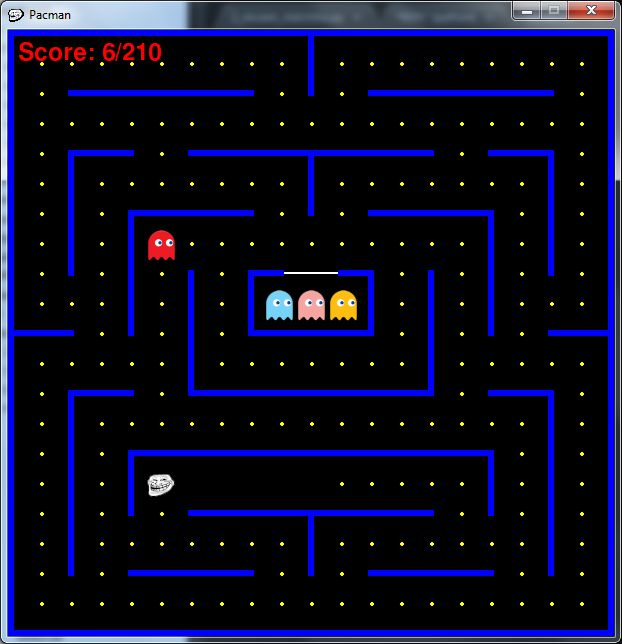
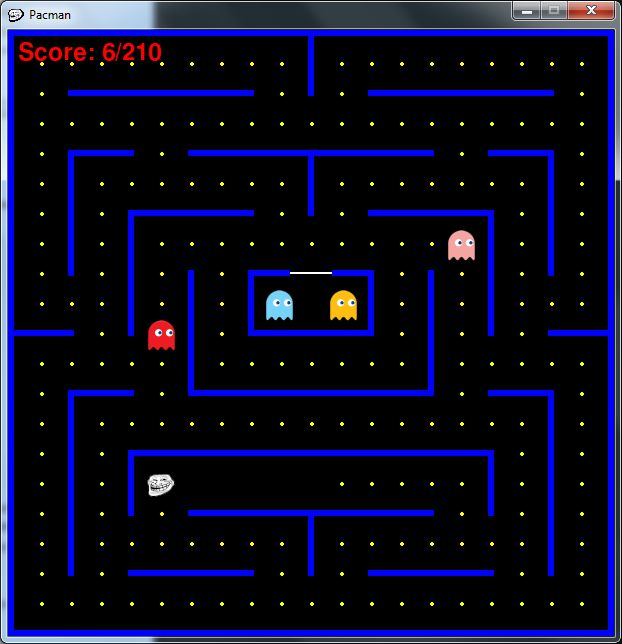
all ghosts moving

diff --git a/pacman2.py b/pacman2.py
@@ -198,6 +198,7 @@ steps = 0
 class Ghost(Player):
     # Change the speed of the ghost
     def changespeed(self,list,l):
+      try:
         global turn
         global steps
         z=list[turn][2]
@@ -213,23 +214,90 @@ class Ghost(Player):
           self.change_x=list[turn][0]
           self.change_y=list[turn][1]
           steps = 0
+      except IndexError:
+       pass
 
 Pinky_directions = [
-[0,-15,8],
-[15,0,24],
+[0,-15,4],
+[15,0,9],
+[0,15,11],
+[-15,0,23],
+[0,15,7],
+[15,0,11],
+[0,15,3],
+[15,0,19],
+[0,-15,15],
+[-15,0,7],
+[0,15,3],
+[-15,0,19],
+[0,-15,11],
+[15,0,9]
 ]
 
 Blinky_directions = [
-[0,-15,8],
-[-15,0,16],
+[-15,0,20],
 [0,15,16],
 [-15,0,4],
 ]
 
 Inky_directions = [
+[15,0,2],
+[0,-15,4],
+[15,0,10],
+[0,15,7],
+[15,0,3],
+[0,-15,3],
+[15,0,3],
+[0,-15,15],
+[-15,0,15],
+[0,15,3],
+[15,0,15],
+[0,15,11],
+[-15,0,3],
+[0,-15,7],
+[-15,0,11],
+[0,15,3],
+[-15,0,11],
+[0,15,7],
+[-15,0,3],
+[0,-15,3],
+[-15,0,3],
+[0,-15,15],
+[15,0,15],
+[0,15,3],
+[-15,0,15],
+[0,15,11],
+[15,0,3],
+[0,-15,11],
+[15,0,11],
+[0,15,3],
+[15,0,1],
 ]
 
 Clyde_directions = [
+[-15,0,2],
+[0,-15,4],
+[15,0,5],
+[0,15,7],
+[-15,0,11],
+[0,-15,7],
+[-15,0,3],
+[0,15,7],
+[-15,0,7],
+[0,15,15],
+[15,0,15],
+[0,-15,3],
+[-15,0,11],
+[0,-15,7],
+[15,0,3],
+[0,-15,11],
+[15,0,15],
+[0,15,7],
+[-15,0,11],
+[0,-15,7],
+[15,0,11],
+[0,15,8],
+[-15,0,11]
 ]
 
 pl = len(Pinky_directions)-1
@@ -349,14 +417,14 @@ while done == False:
     # Pinky.changespeed(Pinky_directions,pl)
     # Pinky.update(wall_list,False)
 
-    Blinky.changespeed(Blinky_directions,bl)
-    Blinky.update(wall_list,False)
+    # Blinky.changespeed(Blinky_directions,bl)
+    # Blinky.update(wall_list,False)
 
     # Inky.changespeed(Inky_directions,il)
     # Inky.update(wall_list,False)
 
-    # Clyde.changespeed(Clyde_directions,cl)
-    # Clyde.update(wall_list,False)
+    Clyde.changespeed(Clyde_directions,cl)
+    Clyde.update(wall_list,False)
 
     # See if the Pacman block has collided with anything.
     blocks_hit_list = pygame.sprite.spritecollide(Pacman, block_list, True)
@@ -391,6 +459,6 @@ while done == False:
     
     pygame.display.flip()
   
-    clock.tick(7)
+    clock.tick(50)
 
 pygame.quit()
